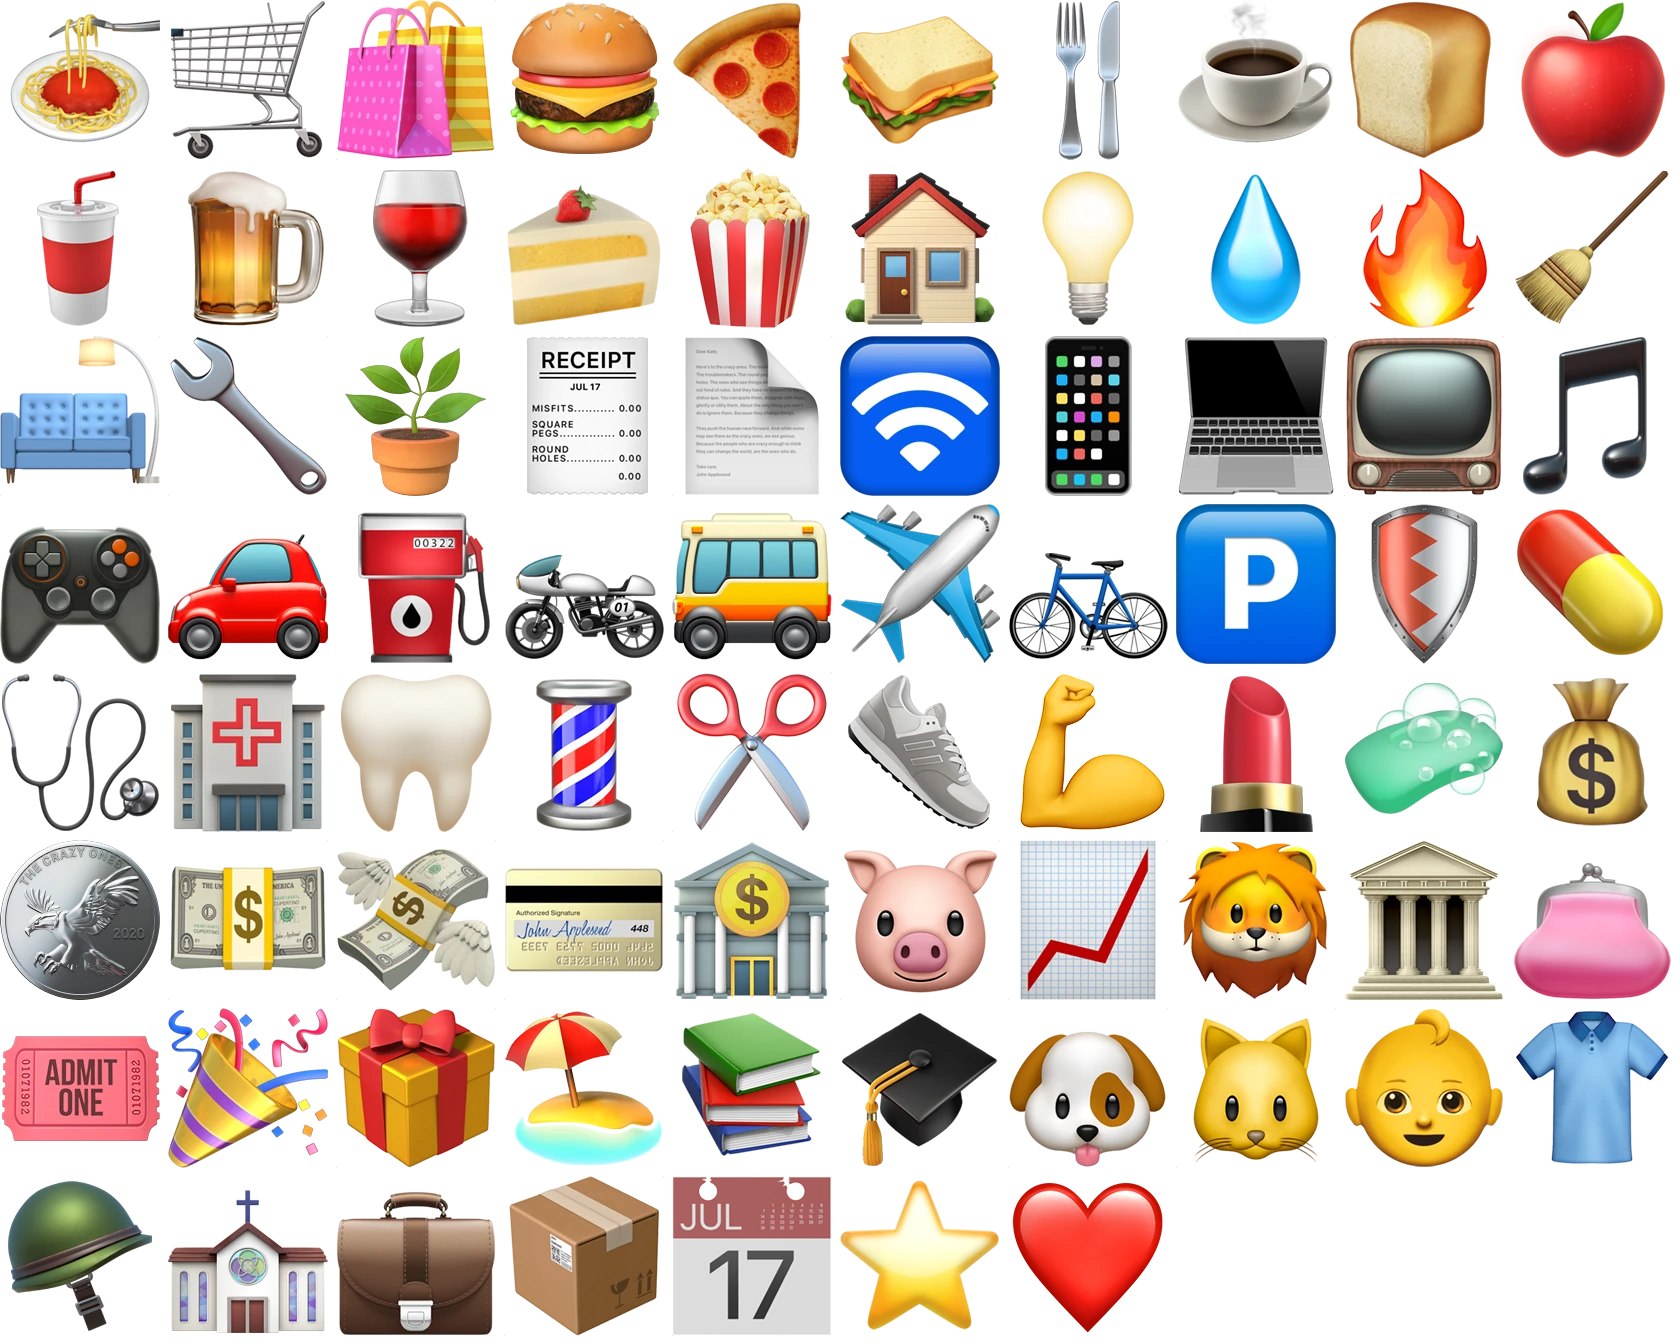
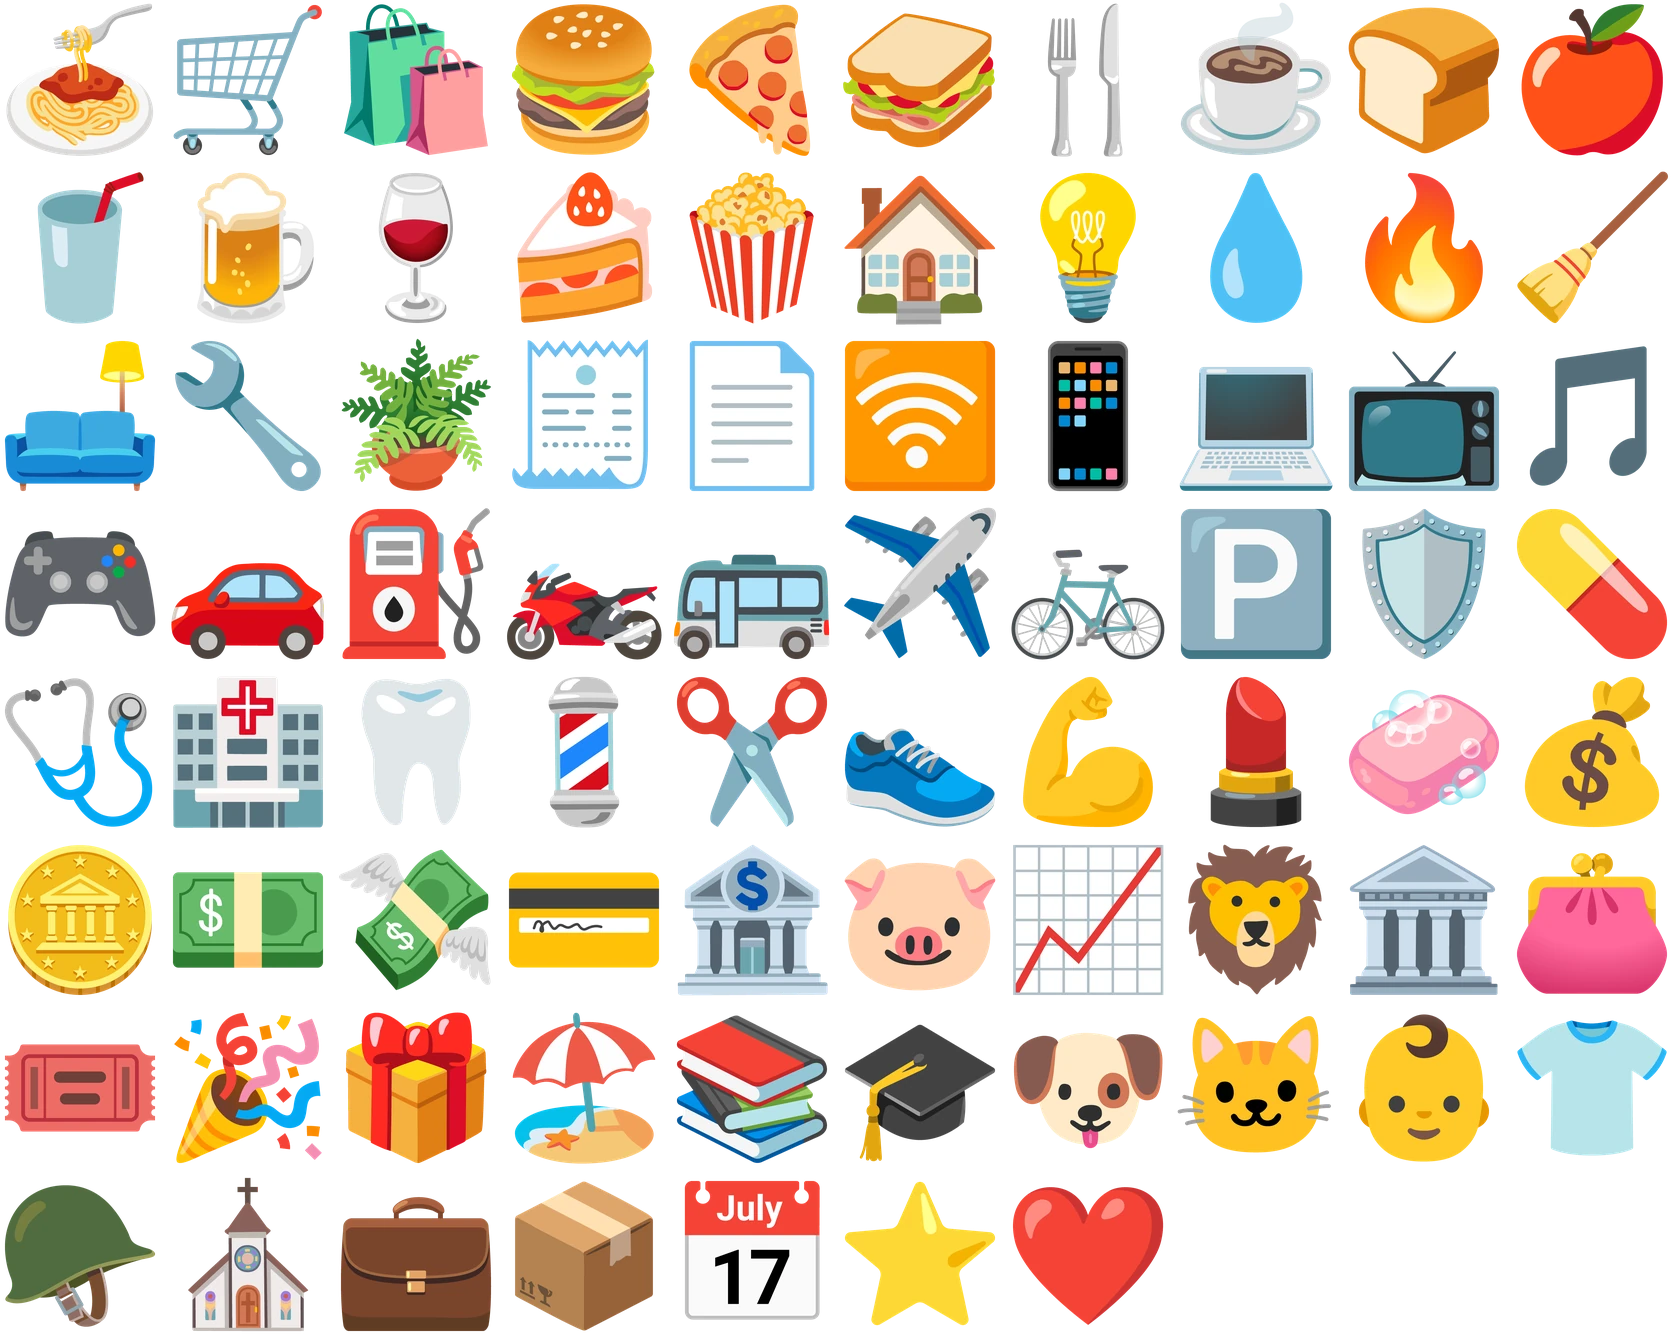
Ícones: troca os emojis da Apple pelo Noto Emoji (Apache-2.0)
Sprite regenerado de um commit fixo do repositório oficial, com SHA-256 de cada PNG.
As chaves de icones.json não mudam, então categorias.icone continua valendo.

Claude-Session: https://claude.ai/code/session_01P7Y3xJrG4RNJxmyJVz4Zof

diff --git a/public/assets/css/style.css b/public/assets/css/style.css
@@ -759,7 +759,7 @@ details.dobra > summary:hover::after { border-color: var(--text); }
 .trilho.quase > i { background: var(--warn); opacity: 1; }
 .trilho.passou > i { background: var(--neg); opacity: 1; }
 
-/* ícone de categoria: emoji da Apple num círculo (tamanho e posição no sprite vêm de Icones::html) */
+/* ícone de categoria: emoji num círculo (tamanho e posição no sprite vêm de Icones::html) */
 .ci {
     display: inline-grid; place-items: center; flex: none; vertical-align: middle;
     border-radius: 50%; background: var(--card-2);

diff --git a/tools/icones/gerar.py b/tools/icones/gerar.py
@@ -1,42 +1,61 @@
 """Gera o sprite dos ícones de categoria (public/assets/img/icones.webp) e a lista em PHP
 (src/icones_lista.php) a partir de tools/icones/icones.json.
 
-Os desenhos são os emojis da Apple (Apple Color Emoji) em 160 px, baixados do repositório
-iamcal/emoji-data (pasta img-apple-160) para tools/icones/.apple/, que fica fora do git.
+Os desenhos são o Noto Emoji (Apache-2.0), em PNG de 512 px, de um commit fixo do repositório
+oficial. Cada arquivo baixado é conferido com o SHA-256 guardado em tools/icones/noto.sha256,
+e nada baixado fica no repositório: o cache é uma pasta temporária (troque com --cache).
 Cada emoji ocupa uma célula de 160 px com 8 px transparentes à direita e embaixo: vários
 encostam na borda, e sem esse respiro o vizinho vaza quando o navegador reduz a imagem.
+
 Rodar fora do servidor:
-    python3 tools/icones/gerar.py   (precisa de Pillow com WebP)
+    python3 tools/icones/gerar.py              (precisa de Pillow com WebP)
+    python3 tools/icones/gerar.py --atualizar-hashes    (só depois de acrescentar um emoji
+                                               ou trocar o commit; revise o diff do noto.sha256)
 """
-import json, pathlib, urllib.error, urllib.request
+import argparse, hashlib, json, pathlib, tempfile, urllib.request
 from PIL import Image
 
 AQUI = pathlib.Path(__file__).resolve().parent
 RAIZ = AQUI.parent.parent
-CACHE = AQUI / '.apple'
-URL = 'https://raw.githubusercontent.com/iamcal/emoji-data/master/img-apple-160/{}.png'
+# Último commit em que o LICENSE da raiz do projeto é o Apache-2.0: ver CREDITOS.md antes de trocar.
+COMMIT = '41e31b110b4eb929dffb410264694a06205b7ad7'
+URL = f'https://raw.githubusercontent.com/googlefonts/noto-emoji/{COMMIT}/png/512/emoji_u{{}}.png'
+HASHES = AQUI / 'noto.sha256'
 RESPIRO = 8
 
 
-def imagem(codigo, n):
-    """O emoji em n×n; alguns só existem com o seletor de variação (-fe0f) no nome do arquivo."""
-    CACHE.mkdir(exist_ok=True)
-    arq = CACHE / f'{codigo}.png'
-    if not arq.exists():
-        for nome in (codigo, codigo + '-fe0f'):
-            try:
-                arq.write_bytes(urllib.request.urlopen(URL.format(nome), timeout=30).read())
-                break
-            except urllib.error.HTTPError as erro:
-                if erro.code != 404:
-                    raise
-        else:
-            raise SystemExit(f'emoji {codigo} não encontrado em {URL}')
+def ler_hashes():
+    if not HASHES.exists():
+        return {}
+    return {nome: h for h, nome in (linha.split() for linha in HASHES.read_text().splitlines() if linha.strip())}
+
+
+def imagem(codigo, n, cache, hashes, atualizar):
+    """O emoji centralizado em n×n, conferido antes de abrir: o arquivo vem de fora."""
+    nome = f'emoji_u{codigo}.png'
+    arq = cache / nome
+    dados = arq.read_bytes() if arq.exists() else urllib.request.urlopen(URL.format(codigo), timeout=60).read()
+    resumo = hashlib.sha256(dados).hexdigest()
+    if atualizar:
+        hashes[nome] = resumo
+    elif hashes.get(nome) != resumo:
+        raise SystemExit(f'{nome}: SHA-256 diferente do esperado em {HASHES.name} ({resumo})')
+    arq.write_bytes(dados)
     im = Image.open(arq).convert('RGBA')
-    return im if im.size == (n, n) else im.resize((n, n), Image.LANCZOS)
+    im.thumbnail((n, n), Image.LANCZOS)
+    celula = Image.new('RGBA', (n, n), (0, 0, 0, 0))
+    celula.paste(im, ((n - im.width) // 2, (n - im.height) // 2))
+    return celula
 
 
 def main():
+    args = argparse.ArgumentParser()
+    args.add_argument('--cache', type=pathlib.Path, default=pathlib.Path(tempfile.gettempdir()) / f'financeiro-noto-{COMMIT[:12]}')
+    args.add_argument('--atualizar-hashes', action='store_true')
+    opcoes = args.parse_args()
+    opcoes.cache.mkdir(parents=True, exist_ok=True)
+    hashes = ler_hashes()
+
     cfg = json.loads((AQUI / 'icones.json').read_text())
     n, cols = cfg['tamanho'], cfg['colunas']
     passo = n + RESPIRO
@@ -46,8 +65,10 @@ def main():
     php = []
     for i, (chave, rot, cod, g) in enumerate(itens):
         c, l = i % cols, i // cols
-        folha.paste(imagem(cod, n), (c * passo, l * passo))
+        folha.paste(imagem(cod, n, opcoes.cache, hashes, opcoes.atualizar_hashes), (c * passo, l * passo))
         php.append(f"    {chave!r} => [{json.dumps(rot, ensure_ascii=False)}, {c}, {l}, {g!r}],")
+    if opcoes.atualizar_hashes:
+        HASHES.write_text(''.join(f'{h}  {nome}\n' for nome, h in sorted(hashes.items())))
     # WebP com perda só na cor (a transparência fica exata): ~5× menor que o PNG, sem diferença à vista
     folha.save(RAIZ / 'public/assets/img/icones.webp', quality=90, method=6)
     grupos = ',\n'.join(f"    {g!r} => {json.dumps(r, ensure_ascii=False)}" for g, r, _ in cfg['grupos'])

diff --git a/src/icones_lista.php b/src/icones_lista.php
@@ -1,6 +1,6 @@
 <?php
 // GERADO por tools/icones/gerar.py a partir de tools/icones/icones.json: não editar à mão.
-// Ícones: Apple Color Emoji (© Apple Inc.), imagens de 160 px do iamcal/emoji-data — https://github.com/iamcal/emoji-data
+// Ícones: Noto Emoji (© Google LLC, Apache-2.0), reduzidos e reunidos em sprite: https://github.com/googlefonts/noto-emoji
 return [
   'tamanho' => 160,
   'passo' => 168,

diff --git a/src/Icones.php b/src/Icones.php
@@ -4,7 +4,7 @@ namespace Financeiro;
 use Financeiro\Models\CategoriaModel;
 
 /**
- * Ícones de categoria: emojis da Apple (160 px) num sprite só, public/assets/img/icones.webp;
+ * Ícones de categoria: emojis do Noto Emoji (160 px) num sprite só, public/assets/img/icones.webp;
  * a lista com posição e grupo de cada um é gerada em src/icones_lista.php por
  * tools/icones/gerar.py.
  *

diff --git a/tools/icones/CREDITOS.md b/tools/icones/CREDITOS.md
@@ -1,15 +1,16 @@
 # Créditos dos ícones de categoria
 
-Os ícones em `public/assets/img/icones.webp` são os emojis da Apple (Apple Color Emoji) em
-160 px, juntados num sprite por `tools/icones/gerar.py`.
+Os ícones em `public/assets/img/icones.webp` vêm do [Noto Emoji](https://github.com/googlefonts/noto-emoji), © Google LLC, sob a licença Apache-2.0 (cópia em [`LICENSE-Noto-Emoji.txt`](LICENSE-Noto-Emoji.txt)).
 
-- Desenhos © Apple Inc. Não têm licença livre: aqui servem só ao uso pessoal deste app da casa,
-  então não publique o sprite nem o repositório.
-- As imagens vêm do repositório iamcal/emoji-data (pasta `img-apple-160`),
-  https://github.com/iamcal/emoji-data, e ficam em cache em `tools/icones/.apple/`, fora do git.
-- Até 2026-10-15 os ícones eram Twemoji (CC-BY 4.0) reduzidos a pixel art; ver o histórico do git.
+**O que foi modificado:** os PNGs de 512 px foram reduzidos para 160 px e reunidos em um único sprite WebP por `tools/icones/gerar.py`. O desenho não foi alterado.
 
-Para trocar ou acrescentar ícones: edite `tools/icones/icones.json` (chave, rótulo, código do
-emoji, grupo) e rode `python3 tools/icones/gerar.py` (precisa de Pillow com WebP). Ele baixa o
-que faltar, regera o sprite e `src/icones_lista.php`. Novas palavras para a sugestão pelo nome
-ficam em `Icones::REGRAS` (src/Icones.php); o formulário recebe as regras prontas em JSON.
+**Por que um commit fixo:** o gerador usa o commit `41e31b110b4eb929dffb410264694a06205b7ad7`. Depois dele, o `LICENSE` da raiz do projeto Noto Emoji passou a ser o da OFL, enquanto o README continua dizendo que as imagens são Apache-2.0. Nesse commit, o `LICENSE` e o README dizem a mesma coisa. Reavalie isso antes de trocar o commit.
+
+**Integridade:** `noto.sha256` guarda o SHA-256 de cada PNG, e o gerador para se algum for diferente. Nenhum arquivo baixado fica no repositório: o cache é uma pasta temporária.
+
+## Trocar ou acrescentar um ícone
+
+1. Edite `tools/icones/icones.json` (chave, rótulo, código do emoji e grupo). Não troque chaves existentes: elas ficam gravadas em `categorias.icone`.
+2. Rode `python3 tools/icones/gerar.py --atualizar-hashes` (precisa de Pillow com WebP) e revise o diff de `noto.sha256`.
+
+O gerador refaz o sprite e `src/icones_lista.php`. As palavras que sugerem um ícone pelo nome da categoria ficam em `Icones::REGRAS`, em `src/Icones.php`.
